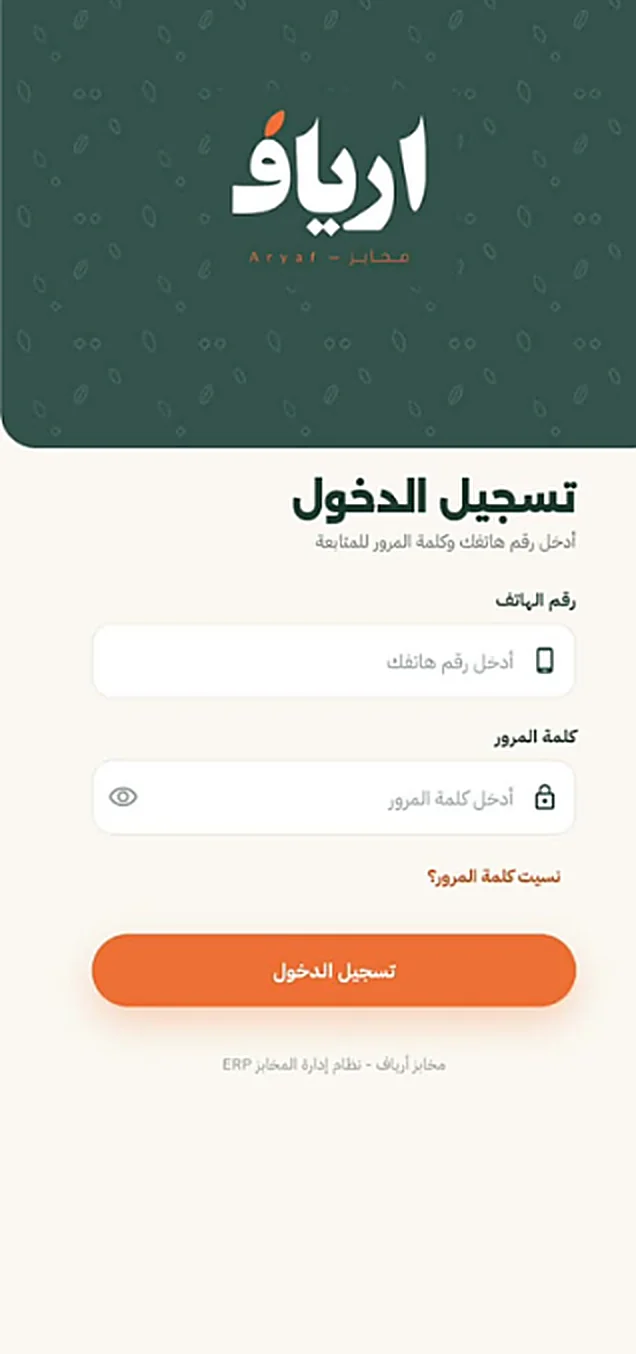
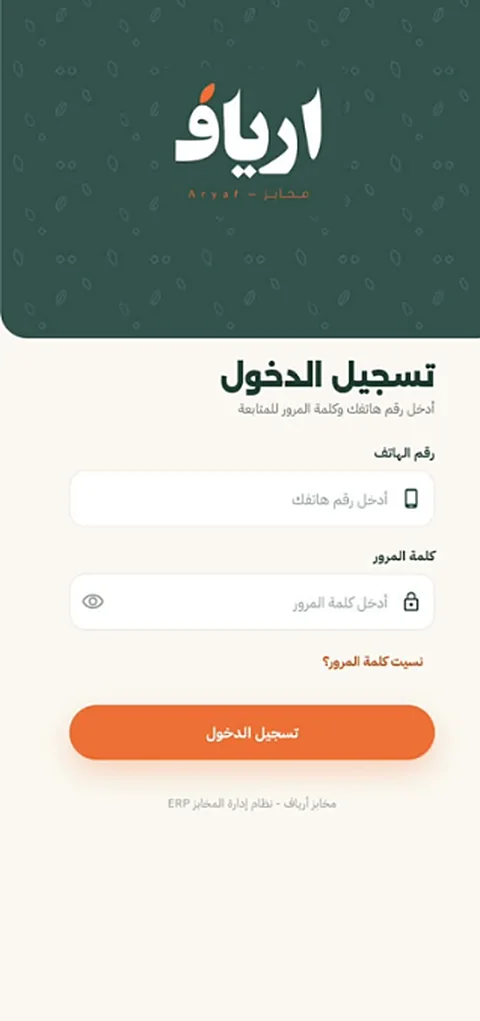
Aryaf screens: fake data instead of blur, uniform size, fit phone frame
- Re-render clients, staff, dashboard and baker screens from the app with fake data
- Keep original screenshots that contain no personal data
- Normalize all 9 images to one aspect ratio (480x1021)
- Resize the phone frame to match so screenshots are not cropped

diff --git a/components/portfolio/projects-section.tsx b/components/portfolio/projects-section.tsx
@@ -577,7 +577,7 @@ const najehScreenshots = [
             <div className="flex flex-col lg:flex-row items-center gap-8 p-8">
               {/* Phone frame with screenshot */}
               <div className="flex-1 flex justify-center">
-                <div className="relative w-64 h-[520px]">
+                <div className="relative w-64 h-[500px]">
                   {/* Phone frame */}
                   <div className="absolute inset-0 bg-black rounded-[40px] border-8 border-gray-900 shadow-2xl overflow-hidden">
                     <div className="w-full h-full bg-black p-3">
